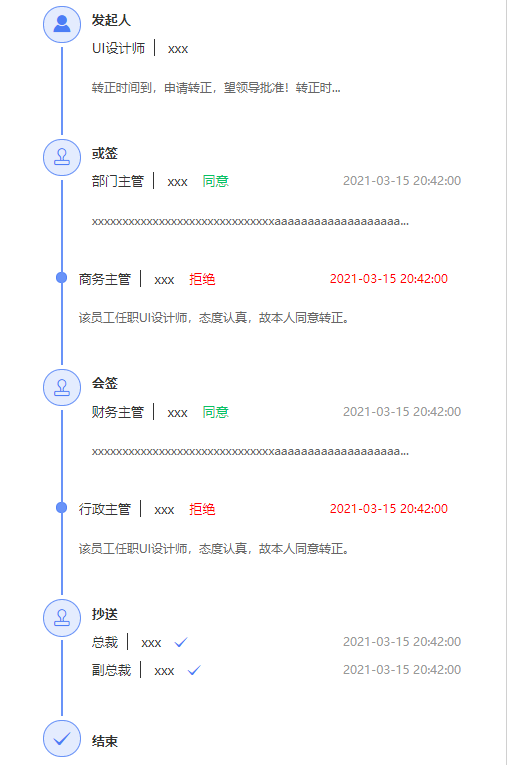
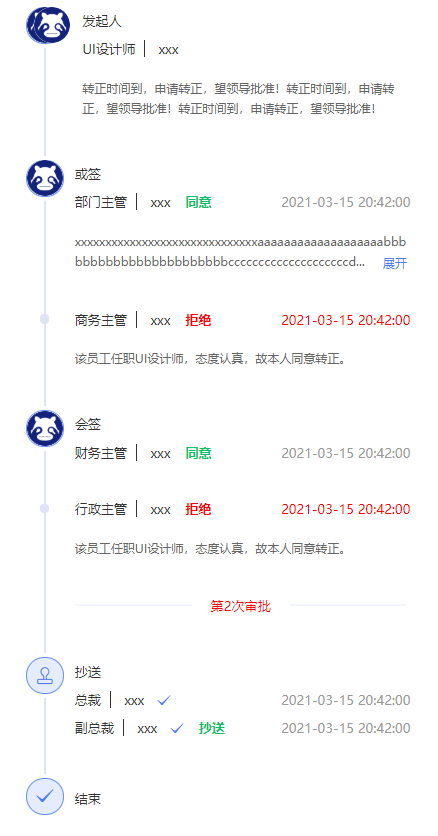
1、新增提醒功能；2、新增头像功能；3、步骤条等样式优化

diff --git a/README.md b/README.md
@@ -1,4 +1,4 @@
-## vue-approval-progress(当前版本 V1.0.1)
+## vue-approval-progress(当前版本 V1.0.2)
 
 一款高效、简洁、功能丰富的审批进度流程显示 pc 端插件
 
@@ -152,6 +152,7 @@ Vue2.x
 | ----------- | ------ | ------------------------------------------------------------------------------------------------------------ | -------- | -------------------------------------------------- |
 | title       | String | 当条数据的 title（注意有多个处理人的情况不展示，参考'或签/会签'样式）                                        |          |                                                    |
 | desc        | String | 当条数据的文字说明展示                                                                                       |          |
+| headportrait        | Array | 头像显示，当存在 headportrait 值时，会优先于label和icon的显示                                                     |          |
 | mark        | String | 当存在 mark 值时，会显示额外的提示信息，如图"第二次审批"                                                     |          |
 | markColor   | String | mark 字体颜色                                                                                                | true     | #FFAE3C                                            |
 | icon        | String | 当条数据的图标展示（注意有多个处理人的情况不展示，参考'或签/会签'样式），若存在 iconLabel 则不展示 icon 图标 | true     | 第一条数据默认人头，结尾数据默认打勾，其它默认印章 |
